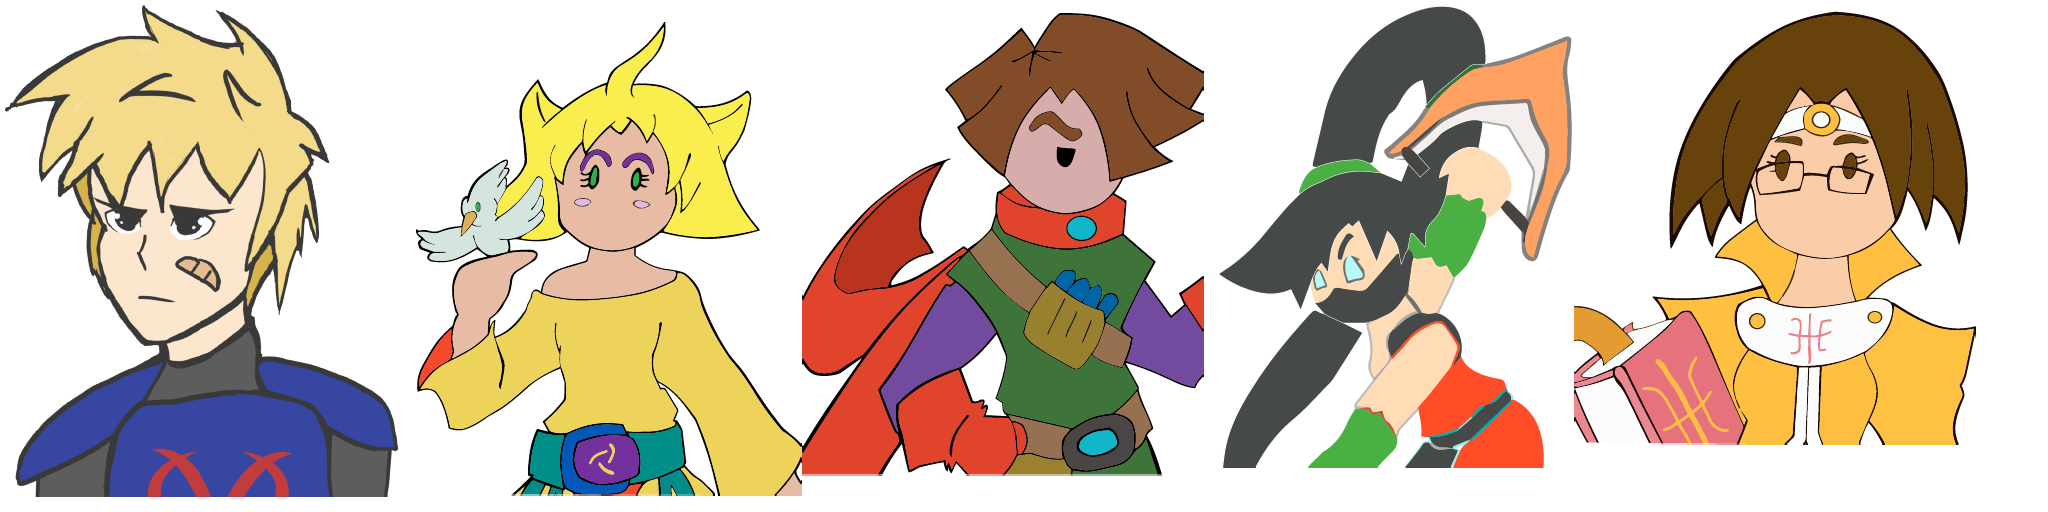
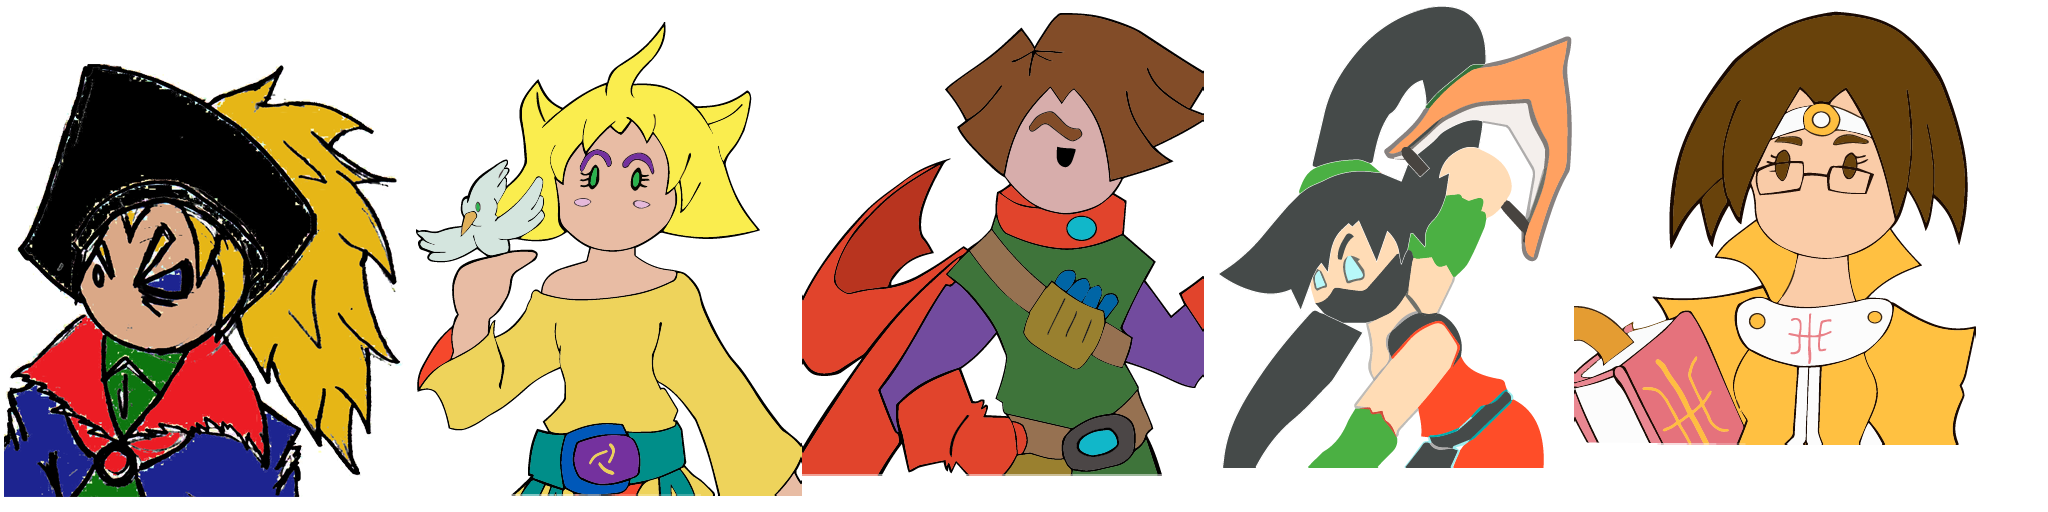
Added opening star effect, changed Kent's image in dialogue, and modified the dialogue.

Changed region(s): [[0.0, 0.0312, 0.2188, 0.9688]]

diff --git a/Assets/Scripts/UI/Dialogue/DialoguePanelConfig.cs b/Assets/Scripts/UI/Dialogue/DialoguePanelConfig.cs
@@ -33,9 +33,7 @@ public class DialoguePanelConfig : MonoBehaviour
         characterImage.sprite = DialogueManager.atlasManager.loadSprite(currentDialogue.CharacterImage);
         dialoguePanel.sprite = DialogueManager.atlasManager.loadTextbox(currentDialogue.CharacterImage);
         nameBox.sprite = DialogueManager.atlasManager.loadNamebox(currentDialogue.CharacterImage);
-
-        //Debug.Log("characterImage.sprite:   " + characterImage.sprite);
-        //Debug.Log("dialoguePanel.sprite:   " + dialoguePanel.sprite);
+        
         characterName.text = currentDialogue.CharacterName;        
         SetFont(characterName, true, characterName.text);
      
